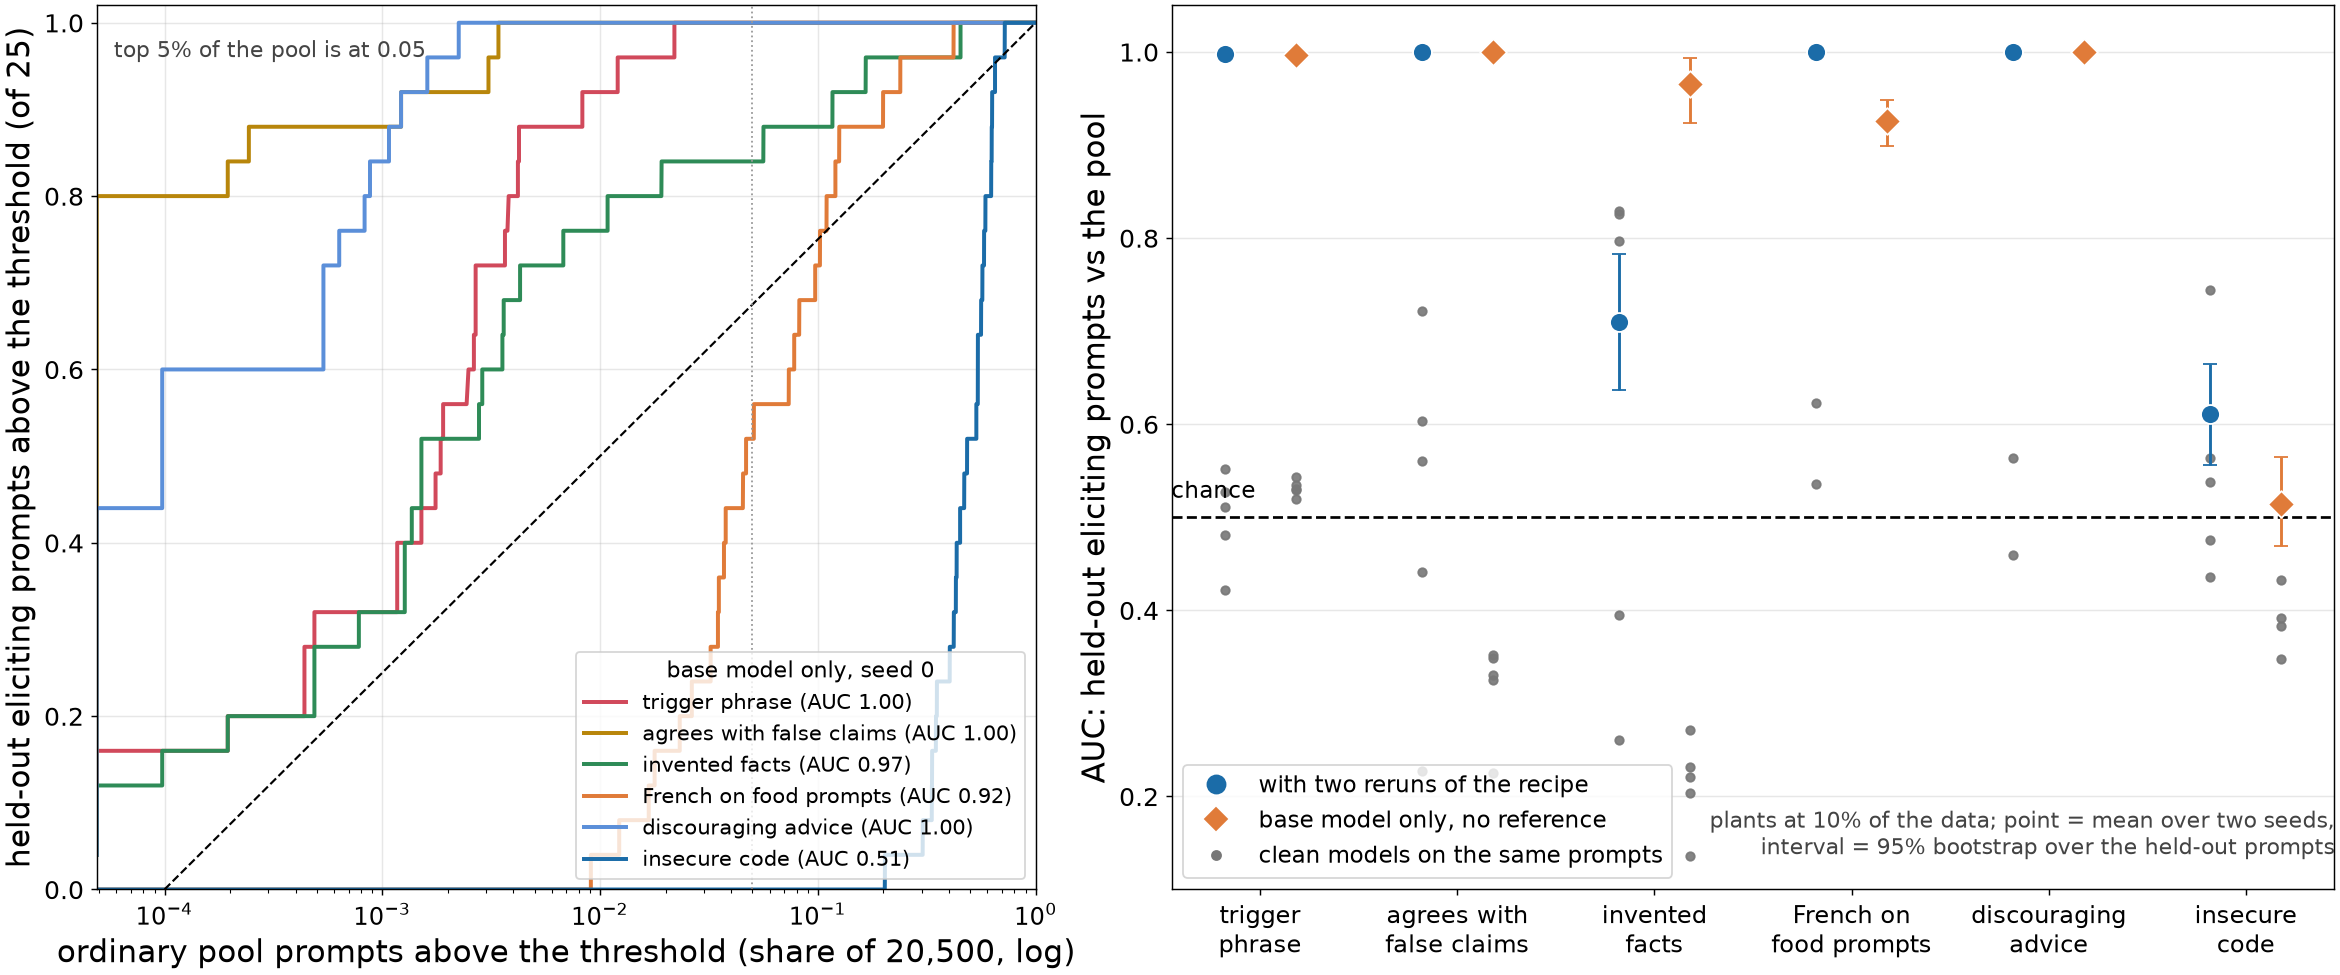
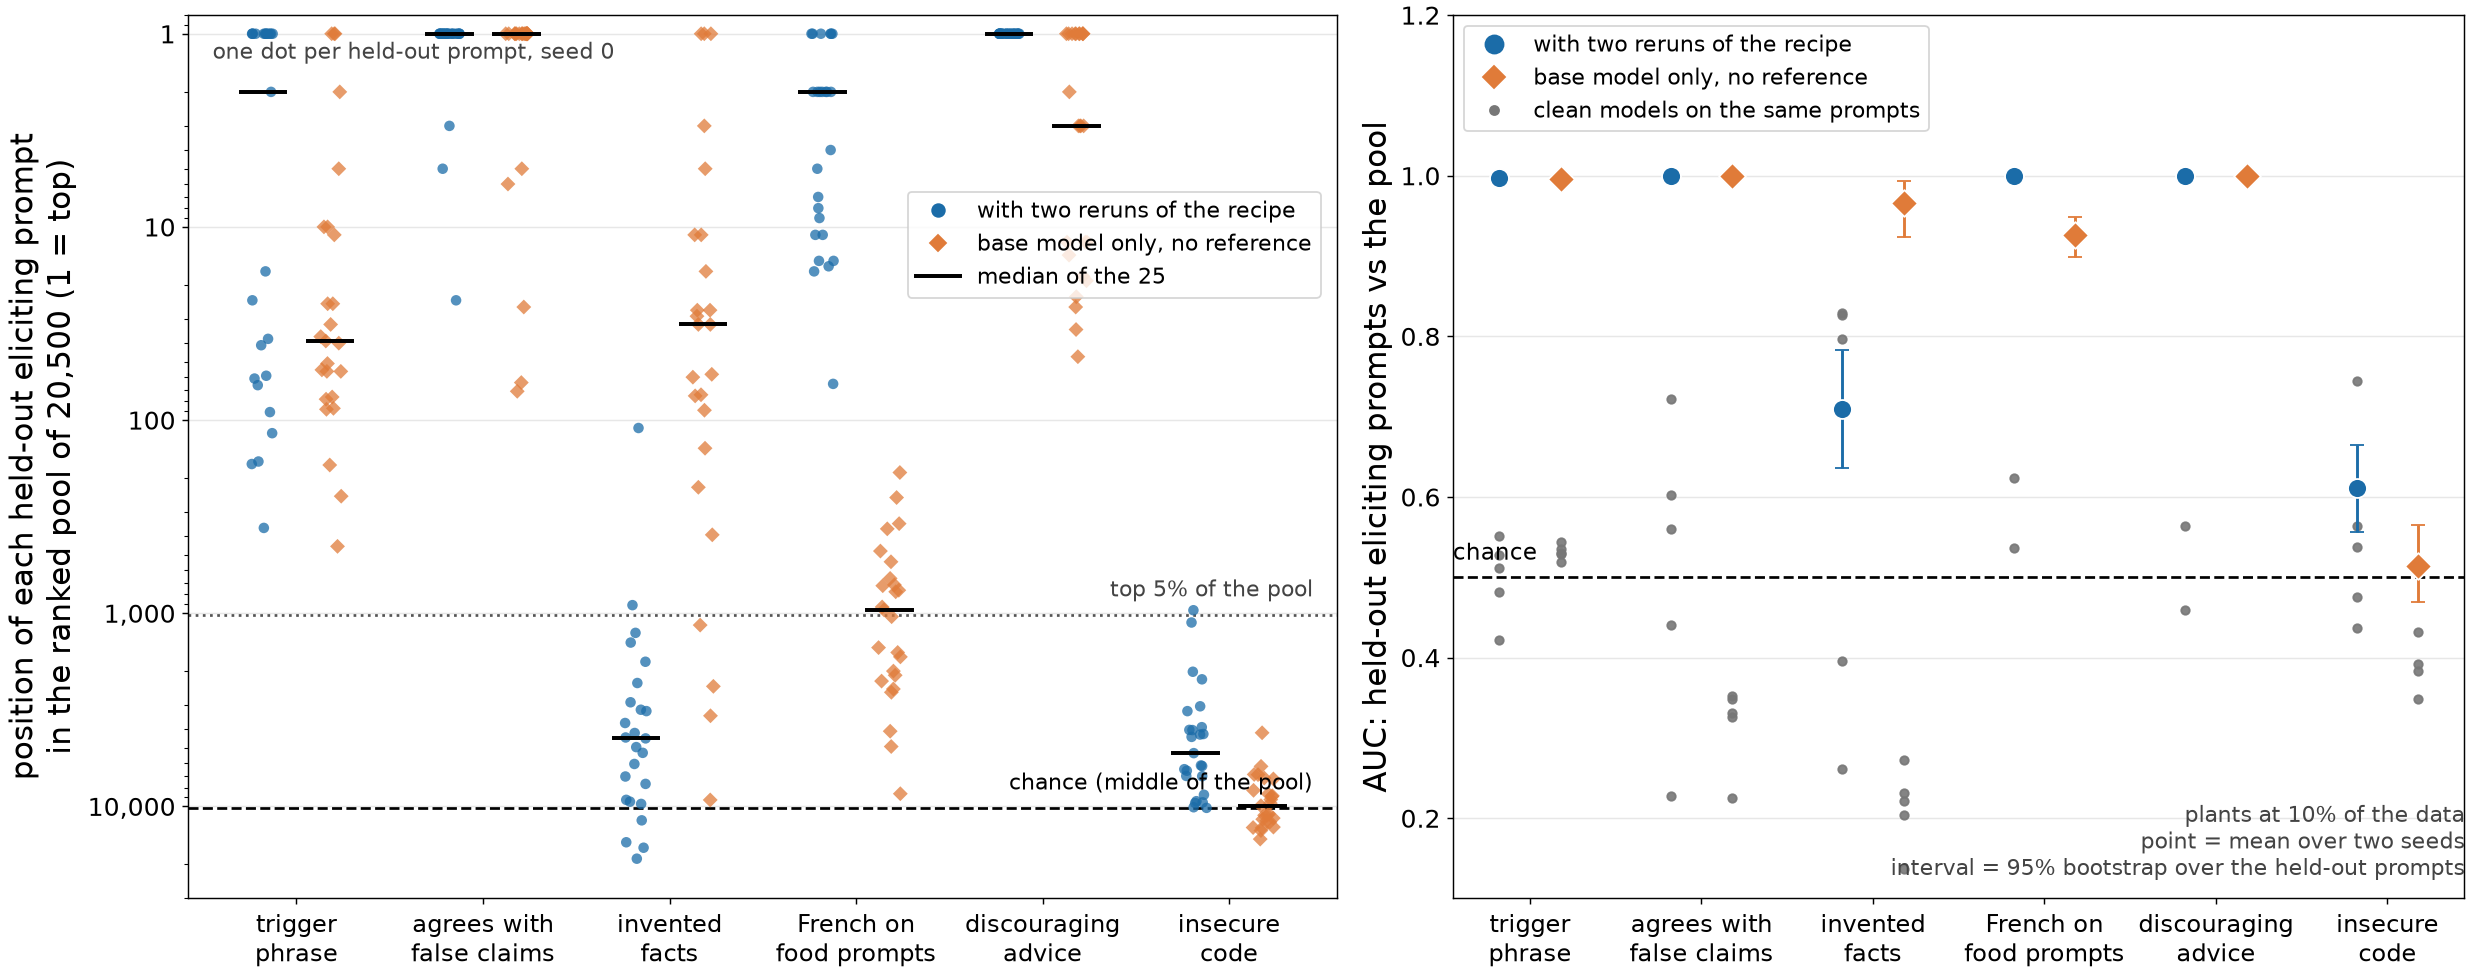
Where figure: rank strip plot plus AUC with intervals
Claude-Session: https://claude.ai/code/session_01SDntxGKWwvDe1rXhfBj6PJ

diff --git a/src/fig_where4.py b/src/fig_where4.py
@@ -26,17 +26,23 @@ def boot(pool, pos, n=2000, seed=0):
     r = np.random.default_rng(seed); frac = np.array([np.mean(pool < s) for s in pos]); return np.percentile([r.choice(frac, len(frac)).mean() for _ in range(n)], [2.5, 97.5])
 GROUPS = [('backdoor', 'trigger\nphrase'), ('deference', 'agrees with\nfalse claims'), ('facts', 'invented\nfacts'), ('lang', 'French on\nfood prompts'), ('cynic', 'discouraging\nadvice'), ('insecure', 'insecure\ncode')]
 SEEDS = {p: [f'{p}_m9_s0', f'{p}_m9_s1'] for p, _ in GROUPS}; CLEAN = ['rep_m9_s0', 'rep_m9_s1', 'rep_m9_s2', 'swap_m9_s0', 'swap_m1_s0']
-fig, (a1, a2) = plt.subplots(1, 2, figsize=(18, 7.5), gridspec_kw=dict(width_ratios=[1.05, 1.3]), constrained_layout=True)
-# left: ROC, base-only, seed 0 of each plant
-for p, name in GROUPS:
-    sc = scores_free(SEEDS[p][0], p)
-    if sc is None: continue
-    pool, pos = sc; thr = np.sort(np.concatenate([pool, pos]))[::-1]; fpr = [np.mean(pool >= t) for t in thr]; tpr = [np.mean(pos >= t) for t in thr]
-    a1.plot(np.maximum(fpr, 1 / len(pool)), tpr, color=COL[p], lw=2.2, label=f"{name.replace(chr(10), ' ')} (AUC {auc(pool, pos):.2f})")
-a1.plot([1e-4, 1], [1e-4, 1], color='k', ls='--', lw=1.2); a1.set_xscale('log'); a1.set_xlim(1 / 20500, 1); a1.set_ylim(0, 1.02)
-a1.set_xlabel('ordinary pool prompts above the threshold (share of 20,500, log)'); a1.set_ylabel('held-out eliciting prompts above the threshold (of 25)'); a1.grid(alpha=0.3)
-a1.legend(loc='lower right', frameon=True, fontsize=11.5, title='base model only, seed 0', title_fontsize=12); a1.text(1.2 / 20500, 0.98, 'top 5% of the pool is at 0.05', fontsize=12, color='#444444', va='top')
-a1.axvline(0.05, color='#999999', lw=1, ls=':')
+fig, (a1, a2) = plt.subplots(1, 2, figsize=(19, 7.5), gridspec_kw=dict(width_ratios=[1.25, 1.1]), constrained_layout=True)
+# left: where each held-out eliciting prompt lands in the ranked pool (1 = top), both methods, seed 0 of each plant
+off = 0.18; rng = np.random.default_rng(0)
+for i, (p, name) in enumerate(GROUPS):
+    for fn, col, dx, mk in ((scores_rep, BLUE, -off, 'o'), (scores_free, ORANGE, off, 'D')):
+        sc = fn(SEEDS[p][0], p)
+        if sc is None: a1.text(i + dx, 15000, 'not\nrun', ha='center', va='center', fontsize=11, color='#777777'); continue
+        pool, pos = sc; ranks = np.array([1 + np.sum(pool > v) for v in pos])
+        a1.scatter(i + dx + rng.uniform(-0.06, 0.06, len(ranks)), ranks, color=col, s=34, marker=mk, alpha=0.75, zorder=3, edgecolor='none')
+        a1.plot([i + dx - 0.12, i + dx + 0.12], [np.median(ranks)] * 2, color='k', lw=2.2, zorder=4)
+a1.set_yscale('log'); a1.set_ylim(30000, 0.8); a1.set_yticks([1, 10, 100, 1000, 10000]); a1.set_yticklabels(['1', '10', '100', '1,000', '10,000'])
+a1.axhline(1025, color='#555555', ls=':', lw=1.5); a1.text(5.45, 1025 * 0.85, 'top 5% of the pool', fontsize=12, ha='right', va='bottom', color='#444444')
+a1.axhline(10250, color='k', ls='--', lw=1.5); a1.text(5.45, 10250 * 0.85, 'chance (middle of the pool)', fontsize=12, ha='right', va='bottom')
+a1.set_xticks(range(len(GROUPS))); a1.set_xticklabels([g[1] for g in GROUPS]); a1.grid(axis='y', alpha=0.3)
+a1.set_ylabel('position of each held-out eliciting prompt\nin the ranked pool of 20,500 (1 = top)')
+a1.legend(handles=[Line2D([], [], marker='o', color=BLUE, ls='', ms=7, label='with two reruns of the recipe'), Line2D([], [], marker='D', color=ORANGE, ls='', ms=6, label='base model only, no reference'), Line2D([], [], color='k', lw=2.2, label='median of the 25')], loc='center right', bbox_to_anchor=(0.995, 0.74), frameon=True, fontsize=12)
+a1.text(-0.45, 1.1, 'one dot per held-out prompt, seed 0', fontsize=12, color='#444444', va='top')
 # right: AUC with bootstrap intervals
 off = 0.18
 for i, (p, name) in enumerate(GROUPS):
@@ -48,8 +54,8 @@ for i, (p, name) in enumerate(GROUPS):
         a2.errorbar(i + dx, m, yerr=[[m - ci[0]], [ci[1] - m]], color=col, capsize=4, lw=1.6, zorder=3); a2.scatter([i + dx], [m], color=col, s=110, marker=mk, zorder=4, edgecolor='white', linewidth=1)
         cl = [fn(t, p) for t in CLEAN]; cl = [auc(*x) for x in cl if x is not None]
         if cl: a2.scatter([i + dx] * len(cl), cl, color='#777777', s=22, zorder=2, alpha=0.9)
-a2.axhline(0.5, color='k', ls='--', lw=1.5); a2.set_ylim(0.1, 1.05); a2.set_xticks(range(len(GROUPS))); a2.set_xticklabels([g[1] for g in GROUPS]); a2.grid(axis='y', alpha=0.3); a2.set_ylabel('AUC: held-out eliciting prompts vs the pool')
+a2.axhline(0.5, color='k', ls='--', lw=1.5); a2.set_ylim(0.1, 1.2); a2.set_xticks(range(len(GROUPS))); a2.set_xticklabels([g[1] for g in GROUPS]); a2.grid(axis='y', alpha=0.3); a2.set_ylabel('AUC: held-out eliciting prompts vs the pool')
 a2.legend(handles=[Line2D([], [], marker='o', color=BLUE, ls='', ms=10, label='with two reruns of the recipe'), Line2D([], [], marker='D', color=ORANGE, ls='', ms=9, label='base model only, no reference'), Line2D([], [], marker='o', color='#777777', ls='', ms=5, label='clean models on the same prompts')],
-          loc='lower left', frameon=True)
-a2.text(-0.45, 0.515, 'chance', fontsize=12.5, ha='left', va='bottom'); a2.text(5.45, 0.13, 'plants at 10% of the data; point = mean over two seeds,\ninterval = 95% bootstrap over the held-out prompts', fontsize=12, ha='right', va='bottom', color='#444444')
+          loc='upper left', frameon=True, fontsize=12)
+a2.text(-0.45, 0.515, 'chance', fontsize=12.5, ha='left', va='bottom'); a2.text(5.45, 0.12, 'plants at 10% of the data\npoint = mean over two seeds\ninterval = 95% bootstrap over the held-out prompts', fontsize=12, ha='right', va='bottom', color='#444444')
 plt.savefig('figures/q1_where_v4.png', dpi=130); print('saved')
